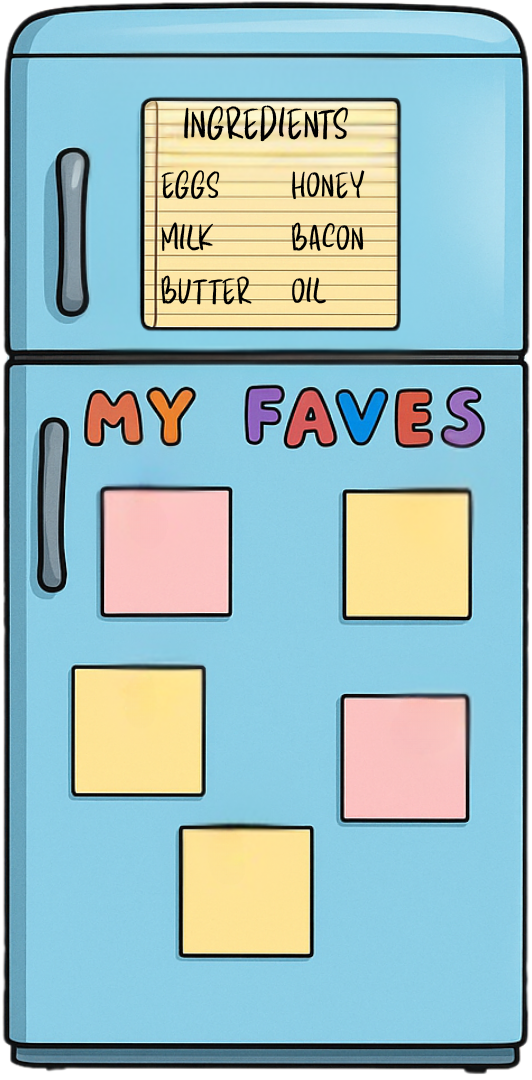
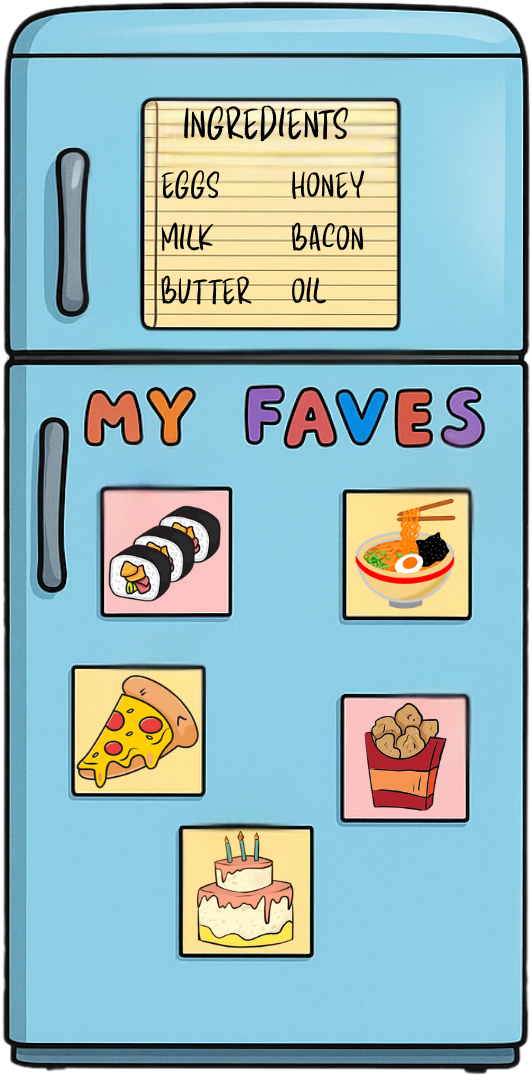
completed home page layout and nav layout

diff --git a/frontend/src/components/Fridge.jsx b/frontend/src/components/Fridge.jsx
@@ -5,30 +5,49 @@ import fridge from '../assets/fridgefinal.png';
 import '../styling/Fridge.css';
 import SpeechBubble from './SpeechBubble';
 
-function Fridge() {
+const recipePositions = [
+  { top: '20%', left: '15%' },
+  { top: '40%', left: '10%' },
+  { top: '60%', left: '25%' },
+  { top: '30%', left: '35%' },
+  { top: '55%', left: '40%' },
+]; 
+
+function Fridge({ recipes = [] }) {
   return (
     <div className="fridge-page">
       <Link to="/search" className="fridge-link">
-      <motion.img
-        src={fridge}
-        alt="Fridge"
-        className="fridge-image"
-        animate={{ rotate: 0 }}
-        whileHover={{
-          rotate: [0, -4, 4, -2, 2, 0],
-          transition: {
-            duration: 1.5,
-            repeat: Infinity,
-            repeatType: "loop",
-            ease: "easeInOut"
-          },
-        }}
-      />
+        <motion.img
+          src={fridge}
+          alt="Fridge"
+          className="fridge-image"
+          animate={{ rotate: 0 }}
+          whileHover={{
+            rotate: [0, -4, 4, -2, 2, 0],
+            transition: {
+              duration: 1.5,
+              repeat: Infinity,
+              repeatType: "loop",
+              ease: "easeInOut"
+            },
+          }}
+        />
       </Link>
+
+      {recipes.slice(0, 5).map((recipe, index) => (
+        <img
+          key={recipe.recipe_id}
+          src={recipe.image_url}
+          alt={recipe.title}
+          className="recipe-overlay-image"
+          style={recipePositions[index]} // position them according to your design
+          title={recipe.title}
+        />
+      ))}
+
       <SpeechBubble />
-      
     </div>
   );
 }
 
-export default Fridge;  
+export default Fridge;

diff --git a/frontend/src/styling/Fridge.css b/frontend/src/styling/Fridge.css
@@ -25,3 +25,19 @@
   margin-top: -9rem;
   transition: transform 0.3s ease;
 }
+
+.recipe-overlay-image {
+  position: absolute;
+  width: 8vw;         /* size relative to viewport width */
+  max-width: 80px;    /* max size in px for bigger screens */
+  border-radius: 10px;
+  box-shadow: 0 2px 8px rgba(0,0,0,0.3);
+  object-fit: cover;
+  cursor: pointer;
+  transition: transform 0.3s ease;
+}
+
+.recipe-overlay-image:hover {
+  transform: scale(1.1);
+  z-index: 10;
+}

diff --git a/frontend/src/styling/Nav.css b/frontend/src/styling/Nav.css
@@ -50,6 +50,12 @@ nav ul li a {
   transition: background-color 0.3s ease, color 0.3s ease;
   font-family: 'SketchPencilDemo', sans-serif;
   font-weight: bold;
+  text-shadow:
+                1px 1px 0px black,
+                1px 1px 0px black,
+                1px 1px 0px black,
+                1px 1px 0px black,
+                1px 1px 0px black;
 }
 
 

diff --git a/frontend/src/App.jsx b/frontend/src/App.jsx
@@ -10,7 +10,7 @@ import { FavoritesProvider } from "./context/FavoritesContext";
 const App = () => {
   return (
     <FavoritesProvider>
-      <Nav /> 
+      <Nav />
       <Routes>
         <Route path="/" element={<Fridge />} />
         <Route path="/search" element={<SearchPage />} />
